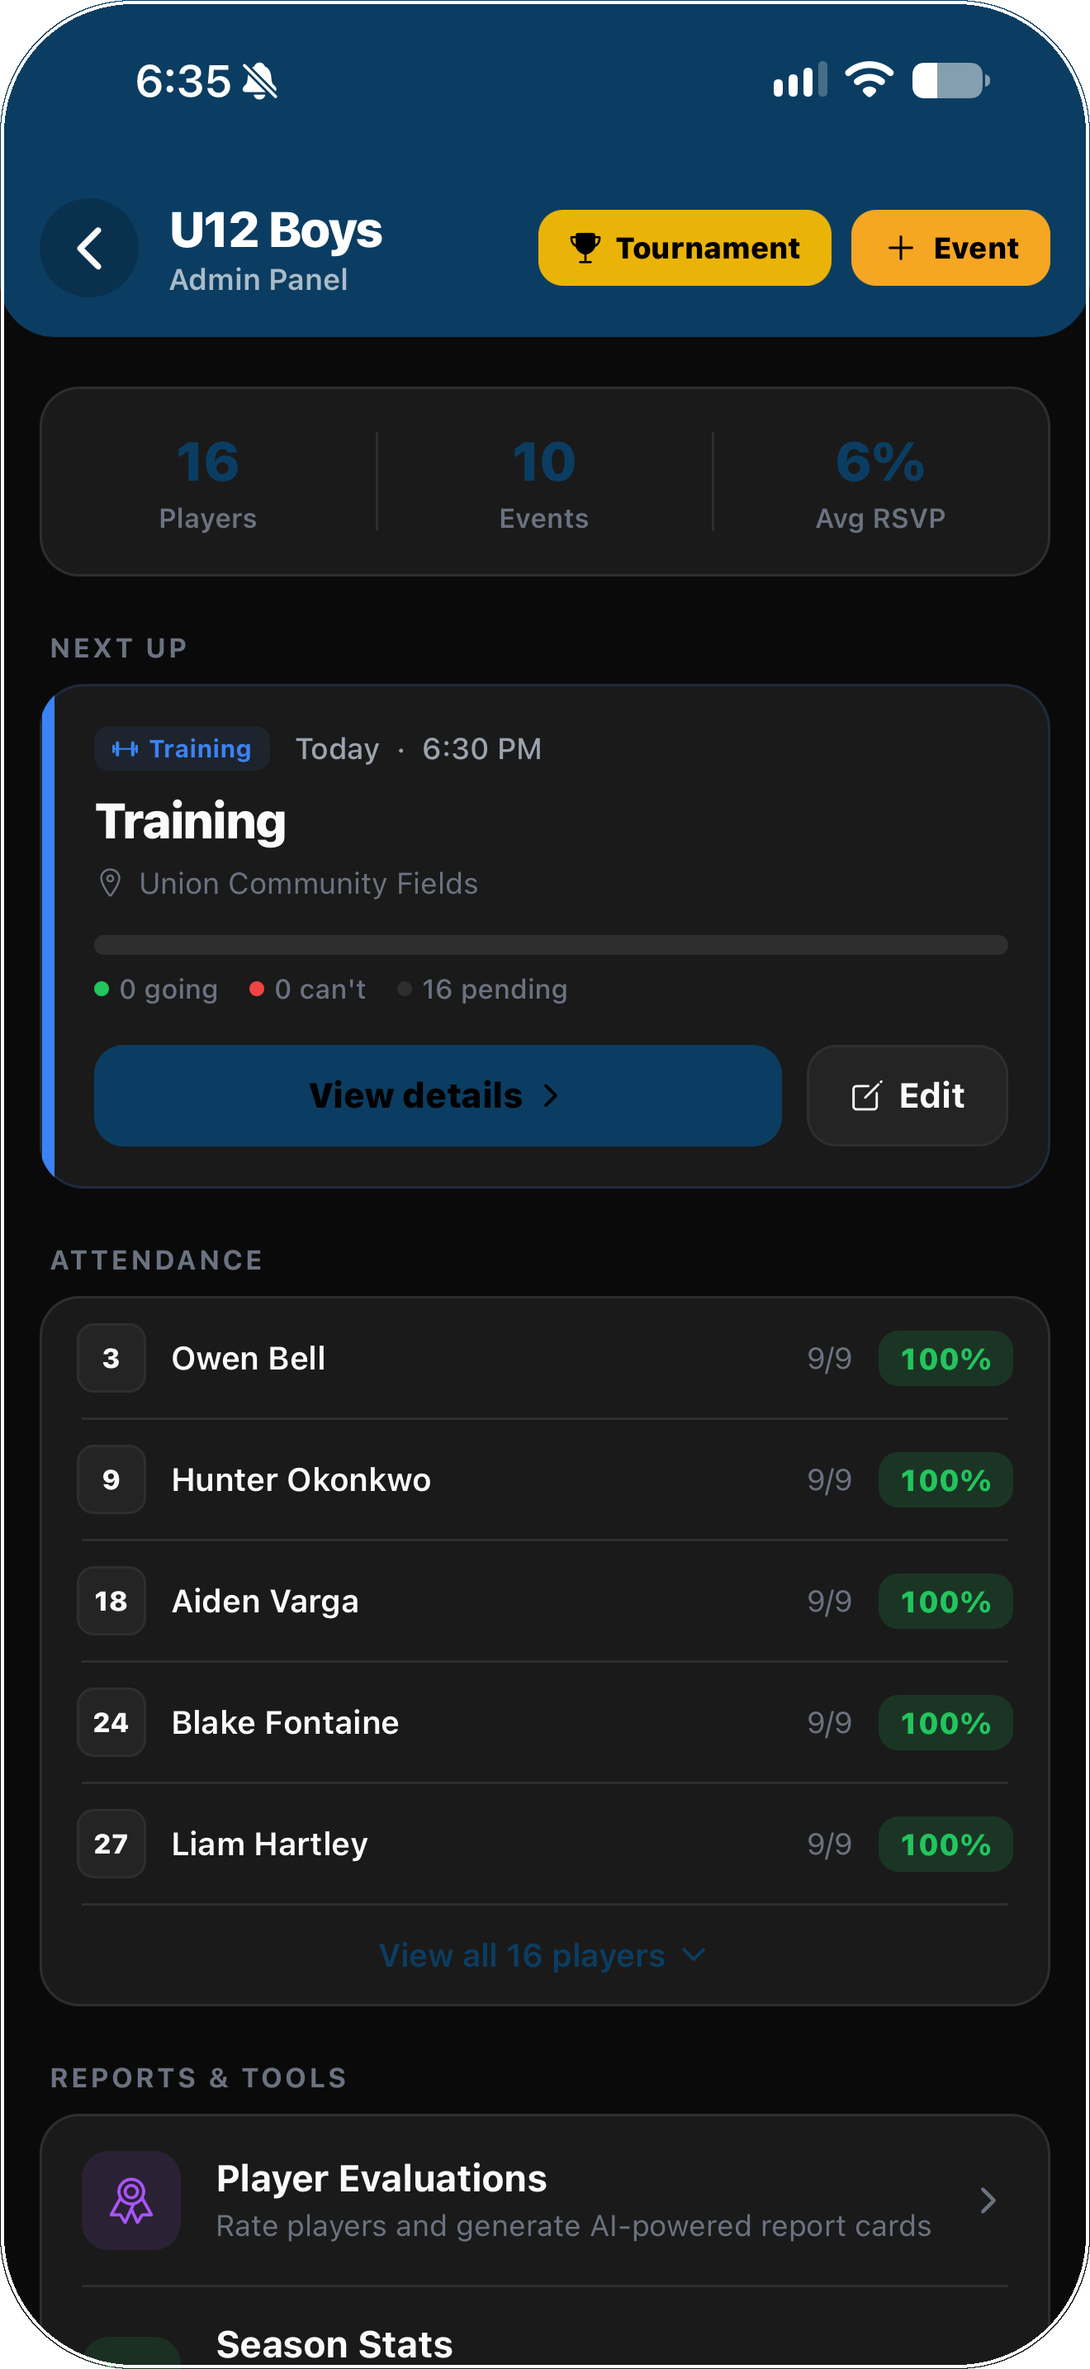
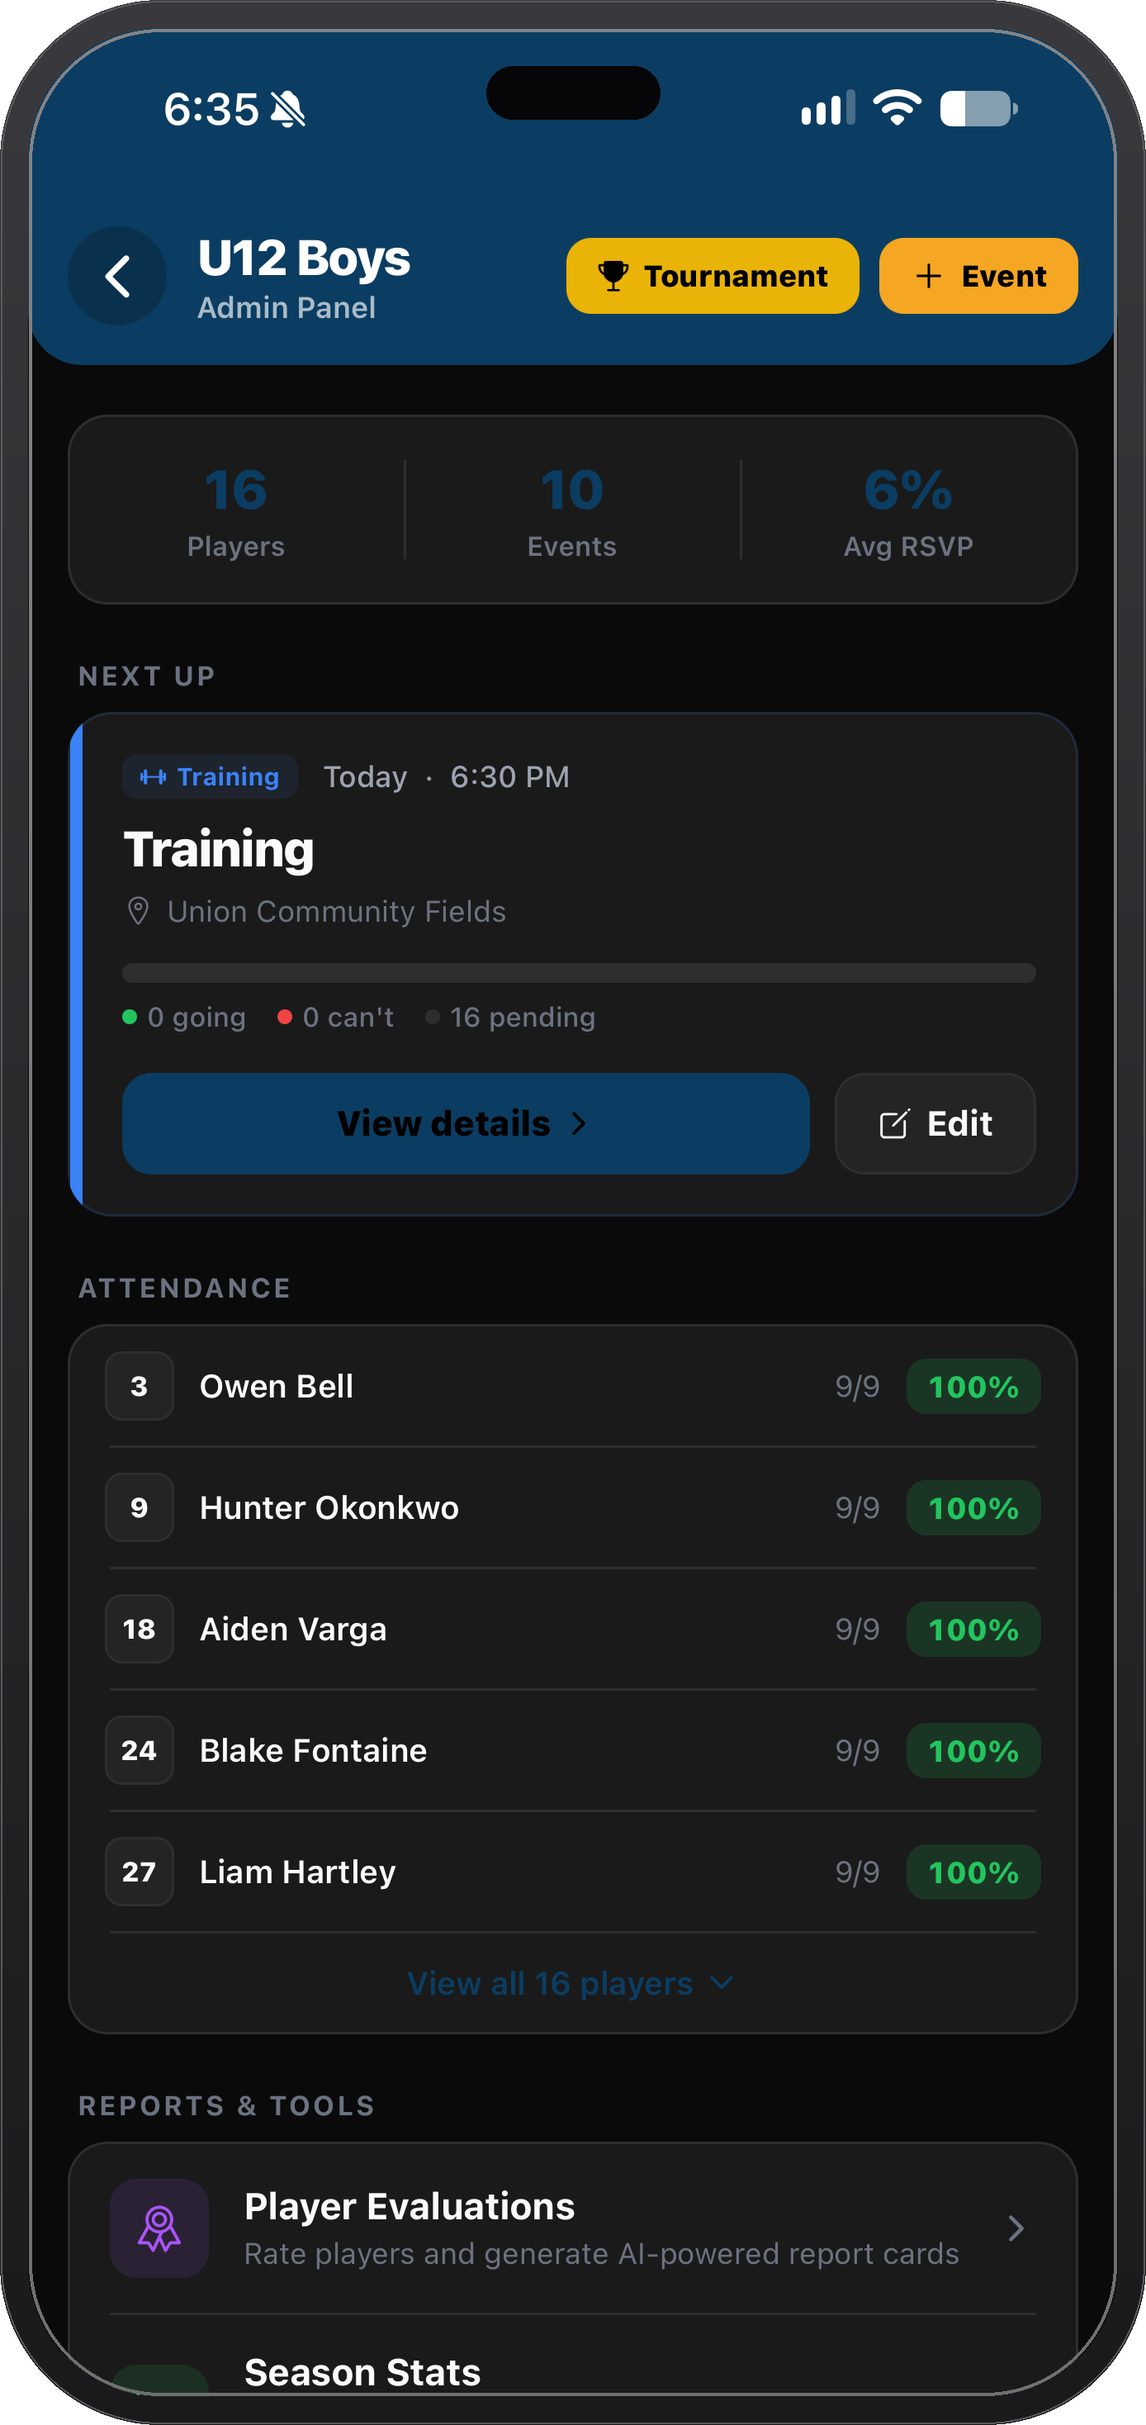
Add phone frames to all screenshots, fix FeatureTabs dark panel clashing with light theme
Two fixes from feedback:
- Every screenshot across the site (hero, FeatureTabs, clubs/coaches/players)
  now sits inside an actual phone bezel (graphite frame + dynamic island),
  generated programmatically from the existing rounded-corner crops rather
  than a bare rounded rectangle.
- FeatureTabs' "How it works" visual panel was still using its old
  near-black background and stat-card colors, which read as a broken block
  against the new cream page. Panel and inner cards now use the same light
  theme as the rest of the site.

diff --git a/web/components/FeatureTabs.tsx b/web/components/FeatureTabs.tsx
@@ -35,23 +35,23 @@ const tabDefs = [
       <div className="flex flex-col sm:flex-row gap-6">
         <Screenshot src="/screenshots/ScheduleTB.png" alt="Schedule screen with AI-imported games" />
         <div className="flex flex-col gap-3 flex-1 min-w-0">
-          <div className="rounded-2xl p-4" style={{ background: '#0e0e0e', border: '1px solid #C9962F30' }}>
+          <div className="rounded-2xl p-4" style={{ background: '#FFFFFF', border: '1px solid #C9962F30' }}>
             <span className="text-[11px] font-bold" style={{ color: '#C9962F' }}>✦ AI Import</span>
-            <p className="text-white font-bold text-[13px] mt-2 mb-1">Season loaded from one PDF</p>
-            <p className="text-[#888] text-[11px]">Every training and game this season, dates/times/locations, no re-typing.</p>
+            <p className="text-[#2B2420] font-bold text-[13px] mt-2 mb-1">Season loaded from one PDF</p>
+            <p className="text-[#6B6054] text-[11px]">Every training and game this season, dates/times/locations, no re-typing.</p>
           </div>
-          <div className="rounded-2xl p-4" style={{ background: '#0e0e0e', border: '1px solid #C9962F30' }}>
-            <p className="text-[#888] text-[10px] font-bold uppercase tracking-widest mb-2">Upcoming</p>
+          <div className="rounded-2xl p-4" style={{ background: '#FFFFFF', border: '1px solid #C9962F30' }}>
+            <p className="text-[#6B6054] text-[10px] font-bold uppercase tracking-widest mb-2">Upcoming</p>
             <div className="flex items-baseline gap-1.5 mb-1">
-              <span className="font-extrabold text-[26px] leading-none text-white">10</span>
-              <span className="text-[#888] text-[11px]">events this month</span>
+              <span className="font-extrabold text-[26px] leading-none text-[#2B2420]">10</span>
+              <span className="text-[#6B6054] text-[11px]">events this month</span>
             </div>
-            <p className="text-[#888] text-[11px]">Weather and a live RSVP count shown on every card.</p>
+            <p className="text-[#6B6054] text-[11px]">Weather and a live RSVP count shown on every card.</p>
           </div>
-          <div className="rounded-2xl p-4" style={{ background: '#0e0e0e', border: '1px solid #C9962F30' }}>
-            <p className="text-[#888] text-[10px] font-bold uppercase tracking-widest mb-2">Flagged for review</p>
-            <p className="text-white font-bold text-[13px] mb-0.5">Uncertain rows, never guessed</p>
-            <p className="text-[#888] text-[11px]">Anything AI isn&apos;t sure about gets a coach&apos;s one-tap confirm before it&apos;s live.</p>
+          <div className="rounded-2xl p-4" style={{ background: '#FFFFFF', border: '1px solid #C9962F30' }}>
+            <p className="text-[#6B6054] text-[10px] font-bold uppercase tracking-widest mb-2">Flagged for review</p>
+            <p className="text-[#2B2420] font-bold text-[13px] mb-0.5">Uncertain rows, never guessed</p>
+            <p className="text-[#6B6054] text-[11px]">Anything AI isn&apos;t sure about gets a coach&apos;s one-tap confirm before it&apos;s live.</p>
           </div>
         </div>
       </div>
@@ -69,32 +69,32 @@ const tabDefs = [
       <div className="flex flex-col sm:flex-row gap-6">
         <Screenshot src="/screenshots/clubsMapTB.png" alt="Event details screen with RSVP breakdown and map" />
         <div className="flex flex-col gap-3 flex-1 min-w-0">
-          <div className="rounded-2xl p-4" style={{ background: '#0e0e0e', border: '1px solid #3FA86B30' }}>
-            <p className="text-[#888] text-[10px] font-bold uppercase tracking-widest mb-2.5">Live headcount</p>
+          <div className="rounded-2xl p-4" style={{ background: '#FFFFFF', border: '1px solid #3FA86B30' }}>
+            <p className="text-[#6B6054] text-[10px] font-bold uppercase tracking-widest mb-2.5">Live headcount</p>
             <div className="flex items-baseline gap-1.5 mb-2">
-              <span className="text-white font-extrabold text-[28px] leading-none">9</span>
+              <span className="text-[#2B2420] font-extrabold text-[28px] leading-none">9</span>
               <span className="text-[#555] text-[16px] font-medium">/16</span>
             </div>
-            <div className="h-1.5 rounded-full overflow-hidden mb-1.5" style={{ background: '#1a1a1a' }}>
+            <div className="h-1.5 rounded-full overflow-hidden mb-1.5" style={{ background: '#EDE6DA' }}>
               <div className="h-full rounded-full" style={{ width: '56%', background: '#3FA86B' }} />
             </div>
-            <p className="text-[#888] text-[10px]">9 going · 2 can&apos;t go · 5 no reply</p>
+            <p className="text-[#6B6054] text-[10px]">9 going · 2 can&apos;t go · 5 no reply</p>
           </div>
-          <div className="rounded-2xl p-4" style={{ background: '#0e0e0e', border: '1px solid #3FA86B30' }}>
+          <div className="rounded-2xl p-4" style={{ background: '#FFFFFF', border: '1px solid #3FA86B30' }}>
             <div className="flex items-center justify-between mb-1.5">
-              <p className="text-[#888] text-[10px] font-bold uppercase tracking-widest">Location</p>
+              <p className="text-[#6B6054] text-[10px] font-bold uppercase tracking-widest">Location</p>
               <span className="text-[10px] font-bold text-[#3FA86B]" style={{ background: '#3FA86B10', border: '1px solid #3FA86B20', padding: '1px 7px', borderRadius: 99 }}>Mapped</span>
             </div>
-            <p className="text-white font-bold text-[13px] mb-0.5">Satellite view + directions</p>
-            <p className="text-[#888] text-[11px]">Every event shows exactly where to go, one tap from the schedule.</p>
+            <p className="text-[#2B2420] font-bold text-[13px] mb-0.5">Satellite view + directions</p>
+            <p className="text-[#6B6054] text-[11px]">Every event shows exactly where to go, one tap from the schedule.</p>
           </div>
-          <div className="rounded-2xl p-4" style={{ background: '#0e0e0e', border: '1px solid #3FA86B30' }}>
-            <p className="text-[#888] text-[10px] font-bold uppercase tracking-widest mb-2.5">Nudge non-responders</p>
+          <div className="rounded-2xl p-4" style={{ background: '#FFFFFF', border: '1px solid #3FA86B30' }}>
+            <p className="text-[#6B6054] text-[10px] font-bold uppercase tracking-widest mb-2.5">Nudge non-responders</p>
             <div className="flex items-start gap-2.5">
               <div className="w-7 h-7 rounded-lg flex-shrink-0 flex items-center justify-center" style={{ background: '#3FA86B', fontSize: 12 }}>🔔</div>
               <div>
-                <p className="text-white text-[11px] font-bold mb-0.5">5 parents haven&apos;t replied</p>
-                <p className="text-[#888] text-[10px]">One tap sends a push reminder to just them.</p>
+                <p className="text-[#2B2420] text-[11px] font-bold mb-0.5">5 parents haven&apos;t replied</p>
+                <p className="text-[#6B6054] text-[10px]">One tap sends a push reminder to just them.</p>
               </div>
             </div>
           </div>
@@ -114,29 +114,29 @@ const tabDefs = [
       <div className="flex flex-col sm:flex-row gap-6">
         <Screenshot src="/screenshots/lineupBuilderTB.png" alt="Lineup builder screen with a 3-2-3 formation" />
         <div className="flex flex-col gap-3 flex-1 min-w-0">
-          <div className="rounded-2xl p-4" style={{ background: '#0e0e0e', border: '1px solid #C9962F30' }}>
+          <div className="rounded-2xl p-4" style={{ background: '#FFFFFF', border: '1px solid #C9962F30' }}>
             <span className="text-[11px] font-bold" style={{ color: '#C9962F' }}>✦ AI Suggested</span>
-            <p className="text-white font-bold text-[13px] mt-2 mb-1">3-2-3 Classic, 9v9</p>
-            <p className="text-[#888] text-[11px]">All 9 positions filled from confirmed RSVPs — drag any player to swap.</p>
+            <p className="text-[#2B2420] font-bold text-[13px] mt-2 mb-1">3-2-3 Classic, 9v9</p>
+            <p className="text-[#6B6054] text-[11px]">All 9 positions filled from confirmed RSVPs — drag any player to swap.</p>
           </div>
-          <div className="rounded-2xl p-4" style={{ background: '#0e0e0e', border: '1px solid #C9962F30' }}>
-            <span className="text-[11px] font-bold text-[#888]">⏱ Equal Time</span>
+          <div className="rounded-2xl p-4" style={{ background: '#FFFFFF', border: '1px solid #C9962F30' }}>
+            <span className="text-[11px] font-bold text-[#6B6054]">⏱ Equal Time</span>
             <div className="flex items-baseline gap-1.5 mt-2 mb-1">
               <span className="font-extrabold text-[26px] leading-none" style={{ color: '#C9962F' }}>18&prime;</span>
-              <span className="text-[#888] text-[11px]">per player</span>
+              <span className="text-[#6B6054] text-[11px]">per player</span>
             </div>
-            <p className="text-[#888] text-[11px]">Target minutes calculated instantly — pure maths, works offline.</p>
+            <p className="text-[#6B6054] text-[11px]">Target minutes calculated instantly — pure maths, works offline.</p>
           </div>
-          <div className="rounded-2xl p-4" style={{ background: '#0e0e0e', border: '1px solid #C9962F30' }}>
-            <p className="text-[#888] text-[10px] font-bold uppercase tracking-widest mb-2">Availability</p>
+          <div className="rounded-2xl p-4" style={{ background: '#FFFFFF', border: '1px solid #C9962F30' }}>
+            <p className="text-[#6B6054] text-[10px] font-bold uppercase tracking-widest mb-2">Availability</p>
             <div className="flex items-baseline gap-1 mb-2">
-              <span className="text-white font-extrabold text-[22px] leading-none">9</span>
+              <span className="text-[#2B2420] font-extrabold text-[22px] leading-none">9</span>
               <span className="text-[#555] text-[14px] font-medium">/9</span>
             </div>
-            <div className="h-1.5 rounded-full overflow-hidden" style={{ background: '#1a1a1a' }}>
+            <div className="h-1.5 rounded-full overflow-hidden" style={{ background: '#EDE6DA' }}>
               <div className="h-full rounded-full" style={{ width: '100%', background: '#3FA86B' }} />
             </div>
-            <p className="text-[#888] text-[10px] mt-1.5">squad confirmed and ready</p>
+            <p className="text-[#6B6054] text-[10px] mt-1.5">squad confirmed and ready</p>
           </div>
         </div>
       </div>
@@ -154,17 +154,17 @@ const tabDefs = [
       <div className="flex flex-col sm:flex-row gap-6">
         <Screenshot src="/screenshots/coachesChatTB.png" alt="Team chat screen" />
         <div className="flex flex-col gap-3 flex-1 min-w-0">
-          <div className="rounded-2xl p-4" style={{ background: '#0e0e0e', border: '1px solid #3FA86B30' }}>
-            <p className="text-[#888] text-[10px] font-bold uppercase tracking-widest mb-2">Coach</p>
-            <p className="text-white text-[13px] leading-snug">&quot;Reminder: Saturday&apos;s game moved to 10am kickoff, same field.&quot;</p>
+          <div className="rounded-2xl p-4" style={{ background: '#FFFFFF', border: '1px solid #3FA86B30' }}>
+            <p className="text-[#6B6054] text-[10px] font-bold uppercase tracking-widest mb-2">Coach</p>
+            <p className="text-[#2B2420] text-[13px] leading-snug">&quot;Reminder: Saturday&apos;s game moved to 10am kickoff, same field.&quot;</p>
           </div>
-          <div className="rounded-2xl p-4" style={{ background: '#0e0e0e', border: '1px solid #3FA86B30' }}>
-            <p className="text-[#888] text-[10px] font-bold uppercase tracking-widest mb-2">Parent</p>
-            <p className="text-white text-[13px] leading-snug">&quot;Got it, thanks coach! Jack is excited, ankle feels good this week.&quot;</p>
+          <div className="rounded-2xl p-4" style={{ background: '#FFFFFF', border: '1px solid #3FA86B30' }}>
+            <p className="text-[#6B6054] text-[10px] font-bold uppercase tracking-widest mb-2">Parent</p>
+            <p className="text-[#2B2420] text-[13px] leading-snug">&quot;Got it, thanks coach! Jack is excited, ankle feels good this week.&quot;</p>
           </div>
-          <div className="rounded-2xl p-4" style={{ background: '#0e0e0e', border: '1px solid #3FA86B30' }}>
-            <p className="text-[#888] text-[10px] font-bold uppercase tracking-widest mb-2.5">One tab, three jobs</p>
-            <p className="text-[#888] text-[11px]">Team chat, pinned announcements, and 1:1 DMs — all in the same place every parent already has open.</p>
+          <div className="rounded-2xl p-4" style={{ background: '#FFFFFF', border: '1px solid #3FA86B30' }}>
+            <p className="text-[#6B6054] text-[10px] font-bold uppercase tracking-widest mb-2.5">One tab, three jobs</p>
+            <p className="text-[#6B6054] text-[11px]">Team chat, pinned announcements, and 1:1 DMs — all in the same place every parent already has open.</p>
           </div>
         </div>
       </div>
@@ -182,26 +182,26 @@ const tabDefs = [
       <div className="flex flex-col sm:flex-row gap-6">
         <Screenshot src="/screenshots/match-trackerTB-crop.png" alt="Match tracker screen, live in-game" />
         <div className="flex flex-col gap-3 flex-1 min-w-0">
-          <div className="rounded-2xl p-4" style={{ background: '#0e0e0e', border: '1px solid #3FA86B30' }}>
-            <p className="text-[#888] text-[10px] font-bold uppercase tracking-widest mb-2">Live match timer</p>
+          <div className="rounded-2xl p-4" style={{ background: '#FFFFFF', border: '1px solid #3FA86B30' }}>
+            <p className="text-[#6B6054] text-[10px] font-bold uppercase tracking-widest mb-2">Live match timer</p>
             <span className="font-extrabold text-[32px] leading-none font-mono" style={{ color: '#3FA86B' }}>03:57</span>
-            <p className="text-[#888] text-[11px] mt-1">1st half · 2-1 · 2 subs pending confirmation</p>
+            <p className="text-[#6B6054] text-[11px] mt-1">1st half · 2-1 · 2 subs pending confirmation</p>
           </div>
-          <div className="rounded-2xl p-4" style={{ background: '#0e0e0e', border: '1px solid #3FA86B30' }}>
-            <p className="text-[#888] text-[10px] font-bold uppercase tracking-widest mb-2">Equal playing time</p>
+          <div className="rounded-2xl p-4" style={{ background: '#FFFFFF', border: '1px solid #3FA86B30' }}>
+            <p className="text-[#6B6054] text-[10px] font-bold uppercase tracking-widest mb-2">Equal playing time</p>
             <div className="flex items-baseline gap-1.5 mb-1">
               <span className="font-extrabold text-[26px] leading-none" style={{ color: '#C9962F' }}>18&prime;</span>
-              <span className="text-[#888] text-[11px]">target per player</span>
+              <span className="text-[#6B6054] text-[11px]">target per player</span>
             </div>
-            <p className="text-[#888] text-[11px]">Bench shows exactly who subs in next, and when.</p>
+            <p className="text-[#6B6054] text-[11px]">Bench shows exactly who subs in next, and when.</p>
           </div>
-          <div className="rounded-2xl p-4" style={{ background: '#0e0e0e', border: '1px solid #3FA86B30' }}>
-            <p className="text-[#888] text-[10px] font-bold uppercase tracking-widest mb-2.5">Works offline</p>
+          <div className="rounded-2xl p-4" style={{ background: '#FFFFFF', border: '1px solid #3FA86B30' }}>
+            <p className="text-[#6B6054] text-[10px] font-bold uppercase tracking-widest mb-2.5">Works offline</p>
             <div className="flex items-start gap-2.5">
               <div className="w-7 h-7 rounded-lg flex-shrink-0 flex items-center justify-center" style={{ background: '#3FA86B', fontSize: 12 }}>⚽</div>
               <div>
-                <p className="text-white text-[11px] font-bold mb-0.5">No signal, no problem</p>
-                <p className="text-[#888] text-[10px]">Score and sub tracking sync the moment you&apos;re back online.</p>
+                <p className="text-[#2B2420] text-[11px] font-bold mb-0.5">No signal, no problem</p>
+                <p className="text-[#6B6054] text-[10px]">Score and sub tracking sync the moment you&apos;re back online.</p>
               </div>
             </div>
           </div>
@@ -349,12 +349,12 @@ export default function FeatureTabs() {
             {/* Blurred solid blob — smooth falloff, no gradient banding */}
             <div key={`glow-${active}`} style={{
               position: 'absolute', top: '5%', left: '10%', width: '55%', height: '65%', borderRadius: '50%',
-              background: tab.accent, opacity: 0.28, filter: 'blur(90px)', pointerEvents: 'none', zIndex: 0,
+              background: tab.accent, opacity: 0.14, filter: 'blur(90px)', pointerEvents: 'none', zIndex: 0,
               animation: 'tabFadeIn 0.4s ease',
             }} />
             <div className="rounded-2xl p-3 sm:p-6 lg:p-8 relative overflow-hidden" style={{
-              background: '#0a0a0a', border: `1px solid ${tab.accent}45`, minHeight: 480, zIndex: 1,
-              boxShadow: `0 24px 60px -30px ${tab.accent}55`,
+              background: theme.bg, border: `1px solid ${tab.accent}45`, minHeight: 480, zIndex: 1,
+              boxShadow: `0 20px 48px -24px ${tab.accent}40`,
             }}>
               {/* Top beam */}
               <div style={{
